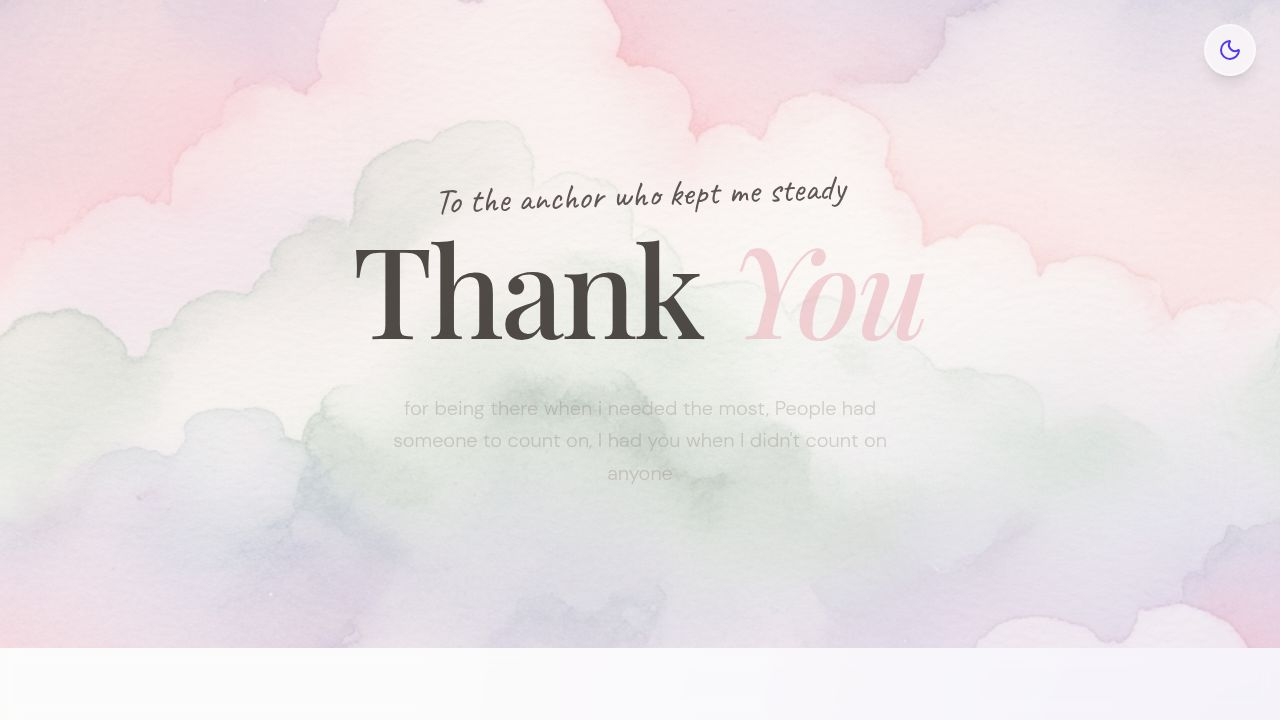
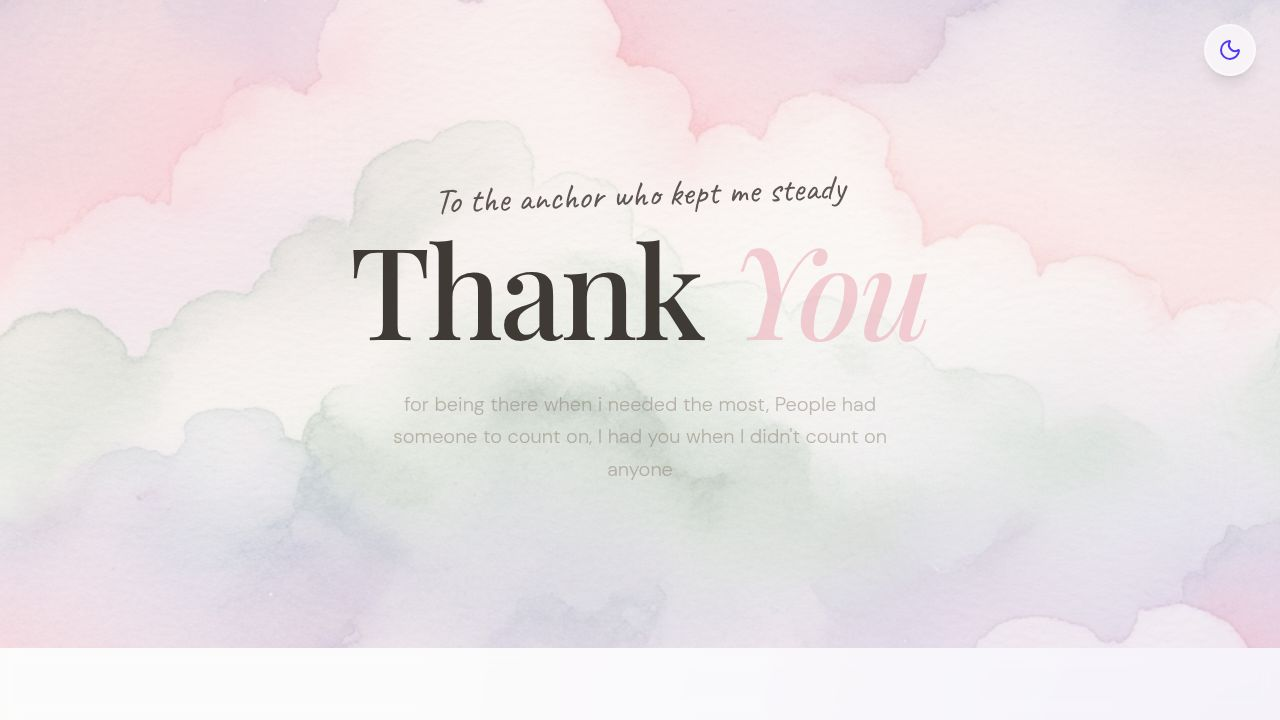
Improve mobile website layout and responsiveness
Update various components across the application to ensure a consistent and visually appealing user experience on mobile devices, while preserving the desktop layout. This includes adjusting grid layouts, text scaling, padding, and element visibility for smaller screens.

Replit-Commit-Author: Agent
Replit-Commit-Session-Id: 651ed039-c12c-4004-b56a-1e7edf39691f
Replit-Commit-Checkpoint-Type: full_checkpoint
Replit-Commit-Event-Id: 1c6d19e5-01e1-4a3c-a058-d6c6ea89a472
Replit-Commit-Screenshot-Url: https://storage.googleapis.com/screenshot-production-us-central1/c7f5a5c3-0ca2-4f0c-b2dd-610e296df8e1/651ed039-c12c-4004-b56a-1e7edf39691f/uExd2zh
Replit-Helium-Checkpoint-Created: true

diff --git a/client/src/components/SongsPlaylist.tsx b/client/src/components/SongsPlaylist.tsx
@@ -64,7 +64,7 @@ export function SongsPlaylist() {
         </motion.div>
 
         {/* Scrapbook-style list */}
-        <div className="space-y-8 relative">
+        <div className="space-y-6 md:space-y-8 relative">
           {defaultSongs.map((song, index) => (
             <motion.div
               key={song.id}
@@ -74,53 +74,63 @@ export function SongsPlaylist() {
               transition={{ delay: index * 0.1, duration: 0.6 }}
               whileHover={{ y: -6, rotate: 0 }}
               style={{ rotate: `${rotations[index]}deg` }}
-              className="group block p-8 bg-white/50 backdrop-blur-sm rounded-2xl border-2 border-white/60 shadow-lg hover:shadow-xl transition-all duration-300 hover:border-primary/40"
+              className="group block p-4 md:p-8 bg-white/50 dark:bg-slate-700/60 backdrop-blur-sm rounded-2xl border-2 border-white/60 dark:border-slate-600 shadow-lg hover:shadow-xl transition-all duration-300 hover:border-primary/40"
               data-testid={`song-item-${song.id}`}
               onMouseEnter={() => soundEffects.hover()}
             >
-              <div className="flex gap-6 items-start">
-                {/* Emoji - Left side */}
+              <div className="flex flex-col md:flex-row gap-4 md:gap-6 items-start">
+                {/* Emoji - Hidden on mobile, left side on desktop */}
                 <motion.div
                   animate={{ y: [0, -8, 0] }}
                   transition={{ duration: 4, repeat: Infinity }}
-                  className="text-6xl flex-shrink-0"
+                  className="hidden md:block text-6xl flex-shrink-0"
                 >
                   {song.emoji}
                 </motion.div>
 
-                {/* Content - Right side */}
-                <div className="flex-1 min-w-0">
-                  <div className="flex items-start justify-between gap-4 mb-3">
-                    <div>
-                      <h3 className="text-2xl font-serif text-gray-800 group-hover:text-primary transition-colors" data-testid={`text-song-title-${song.id}`}>
-                        {song.title}
-                      </h3>
-                      <p className="font-hand text-gray-600 mt-1" data-testid={`text-song-artist-${song.id}`}>
-                        {song.artist}
-                      </p>
+                {/* Content - Full width on mobile, flex-1 on desktop */}
+                <div className="flex-1 min-w-0 w-full">
+                  <div className="flex items-start justify-between gap-4 mb-3 flex-col md:flex-row">
+                    <div className="flex items-center gap-3">
+                      {/* Emoji shows on mobile */}
+                      <motion.div
+                        animate={{ y: [0, -8, 0] }}
+                        transition={{ duration: 4, repeat: Infinity }}
+                        className="md:hidden text-4xl flex-shrink-0"
+                      >
+                        {song.emoji}
+                      </motion.div>
+                      <div>
+                        <h3 className="text-xl md:text-2xl font-serif text-gray-800 dark:text-white group-hover:text-primary transition-colors" data-testid={`text-song-title-${song.id}`}>
+                          {song.title}
+                        </h3>
+                        <p className="font-hand text-sm md:text-base text-gray-600 dark:text-gray-300 mt-1" data-testid={`text-song-artist-${song.id}`}>
+                          {song.artist}
+                        </p>
+                      </div>
                     </div>
                   </div>
 
                   {/* Reason */}
-                  <p className="font-hand text-base text-gray-700 italic leading-relaxed mb-6 group-hover:text-gray-800 transition-colors">
+                  <p className="font-hand text-sm md:text-base text-gray-700 dark:text-gray-200 italic leading-relaxed mb-4 md:mb-6 group-hover:text-gray-800 transition-colors">
                     "{song.reason}"
                   </p>
 
                   {/* Playlist Visualization */}
-                  <div className="flex gap-1 mb-6 h-12 items-end">
+                  <div className="flex gap-1 mb-4 md:mb-6 h-8 md:h-12 items-end">
                     {[0.4, 0.8, 0.6, 0.9, 0.5, 0.7, 0.85].map((height, i) => (
                       <motion.div
                         key={i}
                         animate={{ scaleY: [height * 0.6, height, height * 0.6] }}
                         transition={{ duration: 0.8, repeat: Infinity, delay: i * 0.05 }}
-                        className="flex-1 bg-gradient-to-t from-primary to-secondary/60 rounded-sm opacity-60"
+                        className="flex-1 bg-gradient-to-t from-primary dark:from-rose-500 to-secondary/60 dark:to-emerald-600/60 rounded-sm opacity-60"
                         style={{ height: `${height * 100}%` }}
                       />
                     ))}
                   </div>
 
-                  {/* Spotify Embed */}
-                  <div className="spotify-embed" dangerouslySetInnerHTML={{ __html: song.embedCode }} />
+                  {/* Spotify Embed - Responsive container */}
+                  <div className="spotify-embed w-full overflow-hidden" dangerouslySetInnerHTML={{ __html: song.embedCode }} />
                 </div>
               </div>
             </motion.div>

diff --git a/client/src/components/ThingsNeverSaid.tsx b/client/src/components/ThingsNeverSaid.tsx
@@ -52,23 +52,23 @@ export function ThingsNeverSaid() {
   const [expandedId, setExpandedId] = useState<number | null>(null);
 
   return (
-    <section className="py-24 px-4 bg-white/40 backdrop-blur-sm">
+    <section className="py-16 md:py-24 px-4 bg-white/40 dark:bg-slate-800/30 backdrop-blur-sm">
       <div className="max-w-5xl mx-auto">
         <motion.div
           initial={{ opacity: 0, y: 20 }}
           whileInView={{ opacity: 1, y: 0 }}
           viewport={{ once: true }}
-          className="text-center mb-16"
+          className="text-center mb-12 md:mb-16"
         >
-          <h2 className="text-4xl md:text-5xl font-serif mb-4">
+          <h2 className="text-3xl md:text-4xl lg:text-5xl font-serif mb-3 md:mb-4 dark:text-white">
             Things I Never Said Out Loud
           </h2>
-          <p className="font-hand text-lg text-muted-foreground">
+          <p className="font-hand text-base md:text-lg text-muted-foreground dark:text-gray-300">
             But definitely meant...
           </p>
         </motion.div>
 
-        <div className="grid grid-cols-1 md:grid-cols-2 lg:grid-cols-3 gap-6">
+        <div className="grid grid-cols-1 sm:grid-cols-2 lg:grid-cols-3 gap-4 md:gap-6">
           {things.map((thing, index) => (
             <motion.div
               key={thing.id}
@@ -84,19 +84,19 @@ export function ThingsNeverSaid() {
                   setExpandedId(expandedId === thing.id ? null : thing.id);
                 }}
                 onMouseEnter={() => soundEffects.hover()}
-                className={`w-full text-left p-6 rounded-lg border-2 border-gray-200 transition-all duration-300 paper-shadow hover:shadow-lg cursor-pointer ${
+                className={`w-full text-left p-4 md:p-6 rounded-lg border-2 border-gray-200 dark:border-slate-600 transition-all duration-300 paper-shadow hover:shadow-lg cursor-pointer ${
                   expandedId === thing.id
-                    ? "bg-primary/20 border-primary/50"
-                    : "bg-white/60 hover:bg-white"
+                    ? "bg-primary/20 dark:bg-rose-500/20 border-primary/50 dark:border-rose-500/50"
+                    : "bg-white/60 dark:bg-slate-700/60 hover:bg-white dark:hover:bg-slate-700"
                 }`}
               >
                 <div className="flex items-start justify-between gap-4">
-                  <div className="text-4xl">{thing.emoji}</div>
+                  <div className="text-3xl md:text-4xl">{thing.emoji}</div>
                   <motion.div
                     animate={{ rotate: expandedId === thing.id ? 180 : 0 }}
                     transition={{ duration: 0.3 }}
                   >
-                    <ChevronDown className="w-5 h-5 text-gray-400 flex-shrink-0" />
+                    <ChevronDown className="w-5 h-5 text-gray-400 dark:text-slate-400 flex-shrink-0" />
                   </motion.div>
                 </div>
 
@@ -110,11 +110,11 @@ export function ThingsNeverSaid() {
                       transition={{ duration: 0.3 }}
                       className="overflow-hidden"
                     >
-                      <p className="font-serif text-lg text-gray-700 mt-4 leading-relaxed">
+                      <p className="font-serif text-base md:text-lg text-gray-700 dark:text-gray-200 mt-4 leading-relaxed">
                         {thing.fullText}
                       </p>
                       <div className="flex justify-end mt-4">
-                        <Heart className="w-5 h-5 text-primary fill-primary" />
+                        <Heart className="w-5 h-5 text-primary dark:text-rose-500 fill-primary dark:fill-rose-500" />
                       </div>
                     </motion.div>
                   ) : (
@@ -123,7 +123,7 @@ export function ThingsNeverSaid() {
                       initial={{ opacity: 0 }}
                       animate={{ opacity: 1 }}
                       exit={{ opacity: 0 }}
-                      className="font-hand text-lg text-gray-600 mt-4"
+                      className="font-hand text-base md:text-lg text-gray-600 dark:text-gray-300 mt-4"
                     >
                       {thing.preview}
                     </motion.p>
@@ -139,9 +139,9 @@ export function ThingsNeverSaid() {
           whileInView={{ opacity: 1 }}
           viewport={{ once: true }}
           transition={{ delay: 0.5 }}
-          className="text-center mt-16"
+          className="text-center mt-12 md:mt-16"
         >
-          <p className="font-hand text-xl text-gray-600 italic">
+          <p className="font-hand text-lg md:text-xl text-gray-600 dark:text-gray-300 italic">
             And so much more that words can't hold...
           </p>
         </motion.div>

diff --git a/client/src/components/OpenWhenCards.tsx b/client/src/components/OpenWhenCards.tsx
@@ -66,7 +66,7 @@ export function OpenWhenCards() {
           Open When...
         </motion.h2>
 
-        <div className="grid grid-cols-1 md:grid-cols-2 lg:grid-cols-3 gap-6">
+        <div className="grid grid-cols-1 sm:grid-cols-2 lg:grid-cols-3 gap-4 md:gap-6">
           {cards.map((card, index) => (
             <motion.div
               key={card.id}
@@ -77,15 +77,15 @@ export function OpenWhenCards() {
             >
               <Button
                 variant="outline"
-                className={`w-full h-auto min-h-56 md:min-h-64 flex flex-col items-center justify-center gap-4 text-wrap p-6 border-2 border-dashed border-gray-300 dark:border-slate-600 hover:border-solid hover:border-gray-400 dark:hover:border-slate-500 transition-all duration-300 bg-white/50 dark:bg-slate-700/80 hover:bg-white dark:hover:bg-slate-700 paper-shadow overflow-hidden ${card.color} dark:bg-slate-700/70`}
+                className={`w-full h-auto min-h-40 sm:min-h-48 md:min-h-56 lg:min-h-64 flex flex-col items-center justify-center gap-3 text-wrap p-4 md:p-6 border-2 border-dashed border-gray-300 dark:border-slate-600 hover:border-solid hover:border-gray-400 dark:hover:border-slate-500 transition-all duration-300 bg-white/50 dark:bg-slate-700/80 hover:bg-white dark:hover:bg-slate-700 paper-shadow overflow-hidden ${card.color} dark:bg-slate-700/70`}
                 onClick={() => {
                   soundEffects.click();
                   setSelectedCard(card);
                 }}
                 onMouseEnter={() => soundEffects.hover()}
               >
-                <Mail className="w-10 h-10 text-gray-600 dark:text-slate-300 opacity-50 flex-shrink-0" />
-                <span className="font-hand text-lg md:text-xl text-gray-700 dark:text-white leading-tight line-clamp-4">
+                <Mail className="w-8 md:w-10 h-8 md:h-10 text-gray-600 dark:text-slate-300 opacity-50 flex-shrink-0" />
+                <span className="font-hand text-base md:text-lg lg:text-xl text-gray-700 dark:text-white leading-tight line-clamp-4 px-2">
                   {card.title}
                 </span>
               </Button>

diff --git a/client/src/components/LighterDays.tsx b/client/src/components/LighterDays.tsx
@@ -50,7 +50,7 @@ export function LighterDays() {
           <div className="w-16 h-1 bg-primary/40 dark:bg-rose-500/60 mx-auto rounded-full" />
         </motion.div>
 
-        <div className="grid grid-cols-1 md:grid-cols-2 gap-8">
+        <div className="grid grid-cols-1 md:grid-cols-2 gap-6 md:gap-8 lg:gap-10">
           {moments.map((moment, index) => {
             const Icon = moment.icon;
             return (
@@ -77,7 +77,7 @@ export function LighterDays() {
                   className={`absolute -inset-0.5 bg-gradient-to-br ${moment.color} rounded-2xl blur-xl opacity-0 group-hover:opacity-100 transition-opacity duration-500 -z-10`}
                 />
 
-                <div className={`relative bg-white dark:bg-slate-700 p-8 rounded-2xl border-2 ${moment.borderColor} dark:border-slate-600 paper-shadow backdrop-blur-sm transition-all duration-300`}>
+                <div className={`relative bg-white dark:bg-slate-700 p-6 md:p-8 rounded-2xl border-2 ${moment.borderColor} dark:border-slate-600 paper-shadow backdrop-blur-sm transition-all duration-300`}>
                   {/* Icon with animation */}
                   <motion.div
                     animate={{ rotate: [0, 10, -10, 0] }}
@@ -87,10 +87,10 @@ export function LighterDays() {
                     <Icon className={`w-8 h-8 text-primary/60 dark:text-rose-400/70`} />
                   </motion.div>
 
-                  <h3 className="text-2xl font-serif text-gray-800 dark:text-white mb-3 leading-tight">
+                  <h3 className="text-xl md:text-2xl font-serif text-gray-800 dark:text-white mb-3 leading-tight">
                     {moment.title}
                   </h3>
-                  <p className="font-serif text-gray-600 dark:text-gray-200 leading-relaxed">
+                  <p className="font-serif text-sm md:text-base text-gray-600 dark:text-gray-200 leading-relaxed">
                     {moment.description}
                   </p>
 

diff --git a/client/src/components/Hero.tsx b/client/src/components/Hero.tsx
@@ -49,7 +49,7 @@ export function Hero() {
           animate={{ opacity: 1, y: 0 }}
           transition={{ duration: 0.8 }}
         >
-          <span className="font-hand text-2xl md:text-4xl text-primary-foreground/80 block mb-4 rotate-[-2deg]">
+          <span className="font-hand text-lg sm:text-2xl md:text-4xl text-primary-foreground/80 block mb-4 rotate-[-2deg]">
             To the anchor who kept me steady
           </span>
         </motion.div>
@@ -58,9 +58,9 @@ export function Hero() {
           initial={{ opacity: 0, scale: 0.9 }}
           animate={{ opacity: 1, scale: 1 }}
           transition={{ duration: 0.8, delay: 0.2 }}
-          className="text-6xl md:text-8xl lg:text-9xl font-serif text-foreground tracking-tight leading-[0.9]"
+          className="text-4xl sm:text-6xl md:text-8xl lg:text-9xl font-serif text-foreground tracking-tight leading-[0.9] dark:text-white"
         >
-          Thank <span className="text-primary/60 italic">You</span>
+          Thank <span className="text-primary/60 dark:text-rose-400/60 italic">You</span>
         </motion.h1>
 
         <motion.div
@@ -69,7 +69,7 @@ export function Hero() {
           transition={{ duration: 0.8, delay: 0.6 }}
           className="mt-8"
         >
-          <p className="text-lg md:text-xl text-muted-foreground font-light max-w-lg mx-auto leading-relaxed">
+          <p className="text-sm sm:text-base md:text-lg lg:text-xl text-muted-foreground dark:text-gray-300 font-light max-w-lg mx-auto leading-relaxed">
             for being there when i needed the most, People had someone to count
             on, I had you when I didn't count on anyone
           </p>

diff --git a/client/src/components/PolaroidGallery.tsx b/client/src/components/PolaroidGallery.tsx
@@ -43,7 +43,7 @@ export function PolaroidGallery() {
           </p>
         </motion.div>
 
-        <div className="grid grid-cols-1 md:grid-cols-3 gap-8 md:gap-12 justify-items-center">
+        <div className="flex flex-col md:grid md:grid-cols-3 gap-6 md:gap-8 lg:gap-12 justify-items-center items-center md:items-stretch">
           {memories.map((memory) => (
             <motion.div
               key={memory.id}
@@ -52,7 +52,7 @@ export function PolaroidGallery() {
               whileHover={{ scale: 1.05, rotate: 0, zIndex: 10 }}
               viewport={{ once: true }}
               transition={{ duration: 0.5, delay: memory.delay }}
-              className="bg-white p-4 pb-12 shadow-xl polaroid-shadow max-w-xs transform transition-all duration-300 relative group"
+              className="bg-white dark:bg-slate-800 p-3 md:p-4 pb-8 md:pb-12 shadow-xl polaroid-shadow w-full max-w-xs md:max-w-sm transform transition-all duration-300 relative group"
             >
               {/* Tape Effect */}
               <div className="absolute -top-4 left-1/2 -translate-x-1/2 w-32 h-8 tape opacity-80 rotate-1" />

diff --git a/client/src/pages/Home.tsx b/client/src/pages/Home.tsx
@@ -19,7 +19,7 @@ export default function Home() {
   });
 
   return (
-    <div className="min-h-screen relative dark:bg-slate-950 dark:text-white transition-all duration-700 ease-in-out">
+    <div className="min-h-screen relative dark:bg-slate-950 dark:text-white transition-all duration-700 ease-in-out overflow-x-hidden">
       {/* Progress Bar */}
       <motion.div
         className="fixed top-0 left-0 right-0 h-1 bg-primary origin-left z-50"
